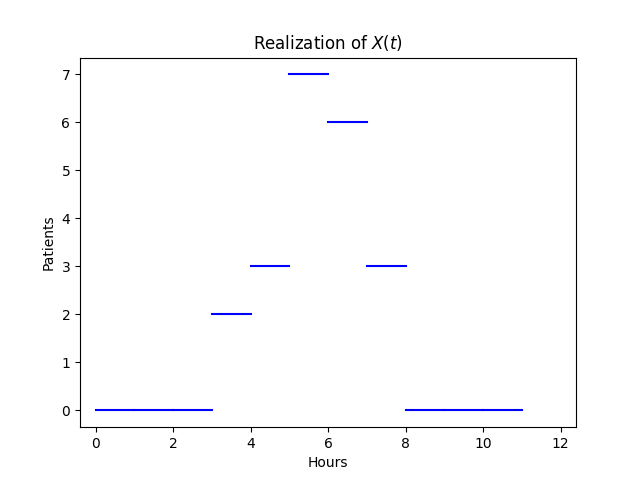
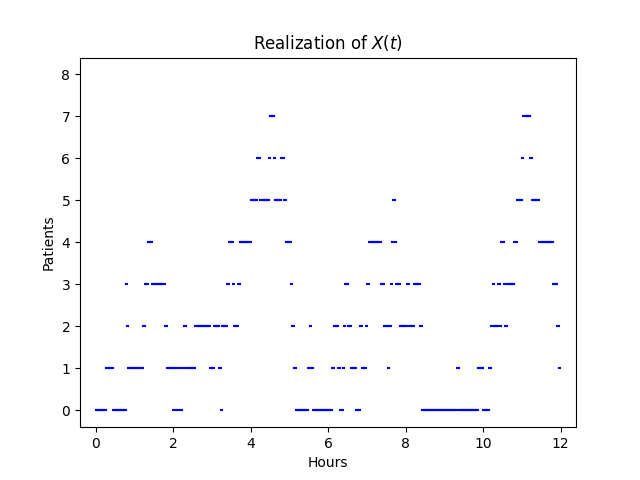
Organizing code, new realization graph

diff --git a/problem1.py b/problem1.py
@@ -70,8 +70,6 @@ def plotRealizations(n, lam, mu, t=50):
 		plt.plot(X)
 	plt.show()
 
-# plotRealizations(2, 5, 6, t = 10)
-
 # Problem b, 2
 # Finding expected time a patient spends in the UCC
 
@@ -107,15 +105,12 @@ def getCI(lam, mu, percentage=0.95):
 	CI = st.norm.interval(0.95, loc=np.mean(waitTimes), scale=st.sem(waitTimes))
 	print(f"Wait times 95% CI: {CI[0]*60:.2f} - {CI[1]*60:.2f} mins, {CI} hours")
 
-getCI(5,6)
 
 exactWaitTime = lambda lam, mu : 1/(mu-lam)
 def getExactWaitTime(lam, mu):
 	waitHour = exactWaitTime(lam,mu)
 	waitMin = waitHour*60
 	print(f"Exact wait time: {waitHour:.4f} hours, {waitMin:.2f}")
-
-# getExactWaitTime(5,6)
 
 # Problem b, 4
 # Plot one realization of {X(t) : t ≥ 0} for the time 0–12 hours.
@@ -132,10 +127,26 @@ def plotRealizationX(lam=5, mu=6):
 	plt.figure("Try")
 	plt.title("Realization of $X(t)$")
 	for x,y in curves:
-		plt.plot(x,y,"b")
-	# plt.xlabel("Hours")
-	# plt.xlim([-0.4,12.4])
+		x,y = np.array(x), np.array(y)
+		plt.plot(x/60,y,"b")
+	plt.xlabel("Hours")
+	plt.xlim([-0.4,12.4])
 	plt.ylabel("Patients")
 	plt.show()
 
-# plotRealizationX()
+
+
+
+# Main section
+# --------------------------------------------------
+# Function calls go below this line
+
+lam, mu = 5, 6
+
+# plotRealizations(2, lam, mu)
+
+getCI(lam,mu)
+
+getExactWaitTime(lam,mu)
+
+plotRealizationX(lam, mu)
